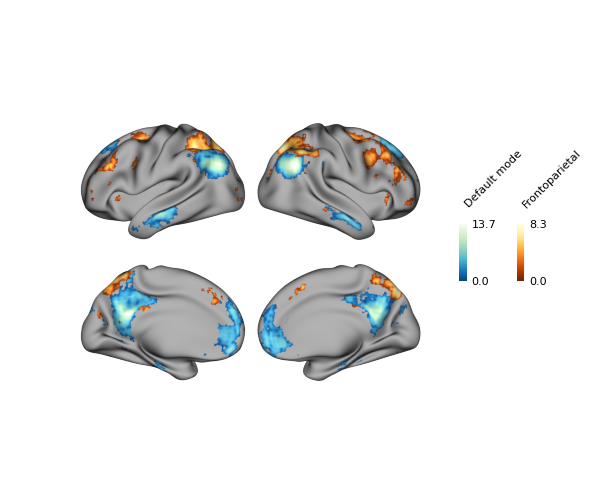
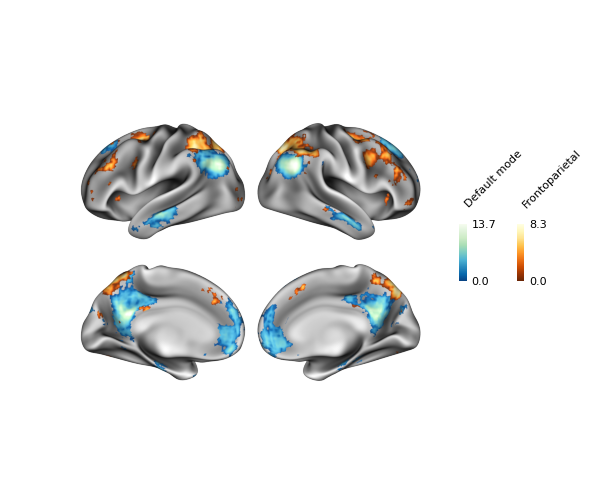
new build

diff --git a/docs/auto_examples/plot_tutorial_05.py b/docs/auto_examples/plot_tutorial_05.py
@@ -18,7 +18,7 @@ turned off by `cbar=False`. The range of the colormap is specified with the
 If no color range is specified (the default, i.e. `None`), then the color range 
 is computed automically based on the minimum and maximum of the data.
 
-Let's get started by setting up a plot with surface curvature added as well. 
+Let's get started by setting up a plot with surface shading added as well. 
 Following the first initial steps of 
 :ref:`sphx_glr_auto_examples_plot_tutorial_01.py` :
 """
@@ -29,6 +29,8 @@ surfaces = fetch_fslr()
 lh, rh = surfaces['inflated']
 p = Plot(lh, rh)
 
+sulc_lh, sulc_rh = surfaces['sulc']
+p.add_layer({'left': sulc_lh, 'right': sulc_rh}, cmap='binary_r', cbar=False)
 ###############################################################################
 # Now let's add a plotting layer with a colorbar using the example data. The
 # `cmap` parameter accepts any named `matplotlib colormap`_, or a 

diff --git a/docs/auto_examples/plot_tutorial_03.py b/docs/auto_examples/plot_tutorial_03.py
@@ -22,7 +22,7 @@ GIFTI and CIFTI data. Let's dig into this further.
 Getting data
 ------------
 
-Here we'll reuse the S1200 surfaces and curvature maps we used in 
+Here we'll reuse the S1200 fsLR surfaces and Freesurfer sulc maps we used in 
 :ref:`sphx_glr_auto_examples_plot_tutorial_01.py`, both of which are 
 downloaded via ``brainnotation``. We'll also reuse the example data. 
 """
@@ -105,7 +105,7 @@ fig.show()
 # and readable with ``nibabel``. These files must be either GIFTI or CIFTI 
 # images. When plotting both hemispheres, you will need a dictionary to assign 
 # each each GIFTI to a hemisphere. To test this out, let's get the downloaded
-# curvature maps and add them: 
+# sulc maps and add them: 
 lh_sulc, rh_sulc = surfaces['sulc']
 p = Plot(surf_lh=lh, surf_rh=rh)
 p.add_layer({'left': lh_sulc, 'right': rh_sulc}, cmap='binary_r', cbar=False)

diff --git a/docs/auto_examples/plot_tutorial_01.py b/docs/auto_examples/plot_tutorial_01.py
@@ -46,11 +46,10 @@ fig.show()
 # adding data is as simple as adding plotting layers using the 
 # :func:`~brainspace.plotting.Plot.add_layer` method. 
 # 
-# Let's first add some curvature shading. Note that we already have the 
-# curvature maps in our `surface` variable, which are accessed here with the 
-# 'sulc' key. 
+# Let's first add some shading. We already have the Freesurfer sulc maps in 
+# our `surface` variable, which are accessed here with the 'sulc' key. 
 #
-# We can pass our curvature maps to the :func:`~brainspace.plotting.Plot.add_layer` 
+# We can pass our sulc maps to the :func:`~brainspace.plotting.Plot.add_layer` 
 # method with the first positional parameter, `data`, which accepts either a 
 # dictionary with 'left' and 'right' keys, or a ``numpy`` array. 
 # :ref:`sphx_glr_auto_examples_plot_tutorial_03.py` covers what types 

diff --git a/docs/auto_examples/examples/plot_example_02.py b/docs/auto_examples/examples/plot_example_02.py
@@ -36,7 +36,7 @@ gii_lh, gii_rh = mni152_to_fslr(img)
 data_lh = threshold(gii_lh.agg_data(), 3)
 data_rh = threshold(gii_rh.agg_data(), 3)
 
-# get surfaces + curvature maps
+# get surfaces + sulc maps
 surfaces = fetch_fslr()
 lh, rh = surfaces['inflated']
 sulc_lh, sulc_rh = surfaces['sulc']

diff --git a/docs/auto_examples/examples/plot_example_01.py b/docs/auto_examples/examples/plot_example_01.py
@@ -20,7 +20,7 @@ lh, rh = surfaces['inflated']
 
 p = Plot(lh, rh)
 
-# curvature
+# shading
 lh_sulc, rh_sulc = surfaces['sulc']
 p.add_layer({'left': lh_sulc, 'right': rh_sulc}, cmap='binary_r', cbar=False)
 

diff --git a/docs/auto_examples/plot_tutorial_05.rst b/docs/auto_examples/plot_tutorial_05.rst
@@ -36,11 +36,11 @@ turned off by `cbar=False`. The range of the colormap is specified with the
 If no color range is specified (the default, i.e. `None`), then the color range 
 is computed automically based on the minimum and maximum of the data.
 
-Let's get started by setting up a plot with surface curvature added as well. 
+Let's get started by setting up a plot with surface shading added as well. 
 Following the first initial steps of 
 :ref:`sphx_glr_auto_examples_plot_tutorial_01.py` :
 
-.. GENERATED FROM PYTHON SOURCE LINES 25-32
+.. GENERATED FROM PYTHON SOURCE LINES 25-34
 
 .. code-block:: default
 
@@ -51,6 +51,8 @@ Following the first initial steps of
     lh, rh = surfaces['inflated']
     p = Plot(lh, rh)
 
+    sulc_lh, sulc_rh = surfaces['sulc']
+    p.add_layer({'left': sulc_lh, 'right': sulc_rh}, cmap='binary_r', cbar=False)
 
 
 
@@ -58,14 +60,14 @@ Following the first initial steps of
 
 
 
-.. GENERATED FROM PYTHON SOURCE LINES 33-37
+.. GENERATED FROM PYTHON SOURCE LINES 35-39
 
 Now let's add a plotting layer with a colorbar using the example data. The
 `cmap` parameter accepts any named `matplotlib colormap`_, or a 
 `colormap object`_. This means that ``surfplot`` can work with pretty much
 any colormap, including those from `seaborn`_ and `cmasher`_,  for example.  
 
-.. GENERATED FROM PYTHON SOURCE LINES 37-44
+.. GENERATED FROM PYTHON SOURCE LINES 39-46
 
 .. code-block:: default
 
@@ -87,7 +89,7 @@ any colormap, including those from `seaborn`_ and `cmasher`_,  for example.
 
 
 
-.. GENERATED FROM PYTHON SOURCE LINES 45-50
+.. GENERATED FROM PYTHON SOURCE LINES 47-52
 
 `cbar_label` added a text label to the colorbar. Although not necessary in
 cases where a single layer/colorbar is shown, it can be useful when adding
@@ -95,7 +97,7 @@ multiple layers. To demonstrate that, let's add another layer using the
 `frontoparietal` network associations from 
 :func:`~surfplot.datasets.load_example_data`:
 
-.. GENERATED FROM PYTHON SOURCE LINES 50-54
+.. GENERATED FROM PYTHON SOURCE LINES 52-56
 
 .. code-block:: default
 
@@ -114,7 +116,7 @@ multiple layers. To demonstrate that, let's add another layer using the
 
 
 
-.. GENERATED FROM PYTHON SOURCE LINES 55-84
+.. GENERATED FROM PYTHON SOURCE LINES 57-86
 
 The order of the colorbars is always based on the order of the layers, where 
 the outermost colorbar is the last (i.e. uppermost) plotting layer. Of 
@@ -146,7 +148,7 @@ Let's plot colorbars on the right, which will generate vertical colorbars
 instead of horizontal colorbars. We'll also add some style changes for a 
 cleaner look: 
 
-.. GENERATED FROM PYTHON SOURCE LINES 84-90
+.. GENERATED FROM PYTHON SOURCE LINES 86-92
 
 .. code-block:: default
 
@@ -167,12 +169,12 @@ cleaner look:
 
 
 
-.. GENERATED FROM PYTHON SOURCE LINES 91-93
+.. GENERATED FROM PYTHON SOURCE LINES 93-95
 
 Be sure to check out :ref:`sphx_glr_auto_examples_examples_plot_example_01.py`
 for another example of colorbar styling.
 
-.. GENERATED FROM PYTHON SOURCE LINES 95-99
+.. GENERATED FROM PYTHON SOURCE LINES 97-101
 
 .. _matplotlib colormap: https://matplotlib.org/stable/tutorials/colors/colormaps.html#sphx-glr-tutorials-colors-colormaps-py
 .. _custom colormap: https://matplotlib.org/stable/tutorials/colors/colormap-manipulation.html
@@ -183,7 +185,7 @@ for another example of colorbar styling.
 
 .. rst-class:: sphx-glr-timing
 
-   **Total running time of the script:** ( 0 minutes  1.180 seconds)
+   **Total running time of the script:** ( 0 minutes  1.382 seconds)
 
 
 .. _sphx_glr_download_auto_examples_plot_tutorial_05.py:

diff --git a/docs/auto_examples/plot_tutorial_01.rst b/docs/auto_examples/plot_tutorial_01.rst
@@ -85,7 +85,7 @@ Then, we can call :func:`build` method to make the figure, which returns a
 
 
 
-.. GENERATED FROM PYTHON SOURCE LINES 43-58
+.. GENERATED FROM PYTHON SOURCE LINES 43-57
 
 Adding layers
 -------------
@@ -93,17 +93,16 @@ Once the plot has been set up by instantiating the :class:`~brainspace.plotting.
 adding data is as simple as adding plotting layers using the 
 :func:`~brainspace.plotting.Plot.add_layer` method. 
 
-Let's first add some curvature shading. Note that we already have the 
-curvature maps in our `surface` variable, which are accessed here with the 
-'sulc' key. 
+Let's first add some shading. We already have the Freesurfer sulc maps in 
+our `surface` variable, which are accessed here with the 'sulc' key. 
 
-We can pass our curvature maps to the :func:`~brainspace.plotting.Plot.add_layer` 
+We can pass our sulc maps to the :func:`~brainspace.plotting.Plot.add_layer` 
 method with the first positional parameter, `data`, which accepts either a 
 dictionary with 'left' and 'right' keys, or a ``numpy`` array. 
 :ref:`sphx_glr_auto_examples_plot_tutorial_03.py` covers what types 
 of data can be passed to the `data` parameter.
 
-.. GENERATED FROM PYTHON SOURCE LINES 58-60
+.. GENERATED FROM PYTHON SOURCE LINES 57-59
 
 .. code-block:: default
 
@@ -116,14 +115,14 @@ of data can be passed to the `data` parameter.
 
 
 
-.. GENERATED FROM PYTHON SOURCE LINES 61-65
+.. GENERATED FROM PYTHON SOURCE LINES 60-64
 
 Above, we've also used a grayscale colormap (`cmap`) and turned off the 
 colorbar (`cbar`) for this particular layer.
 
 Now, let's plot our updated figure:
 
-.. GENERATED FROM PYTHON SOURCE LINES 65-67
+.. GENERATED FROM PYTHON SOURCE LINES 64-66
 
 .. code-block:: default
 
@@ -140,7 +139,7 @@ Now, let's plot our updated figure:
 
 
 
-.. GENERATED FROM PYTHON SOURCE LINES 68-76
+.. GENERATED FROM PYTHON SOURCE LINES 67-75
 
 Finally, let's add some statistical data. We can load some example data 
 packaged with ``surfplot`` using 
@@ -151,7 +150,7 @@ For convenience, this map has already been projected from a volume in MNI152
 coordinates to a fsLR surface using ``brainnotation``, and the `lh_data`
 and `rh_data` variables are just numpy arrays of the vertices:  
 
-.. GENERATED FROM PYTHON SOURCE LINES 76-79
+.. GENERATED FROM PYTHON SOURCE LINES 75-78
 
 .. code-block:: default
 
@@ -173,14 +172,14 @@ and `rh_data` variables are just numpy arrays of the vertices:
 
 
 
-.. GENERATED FROM PYTHON SOURCE LINES 80-84
+.. GENERATED FROM PYTHON SOURCE LINES 79-83
 
 We can add each array as a layer using a dictionary like before. By
 default a colorbar will be added for this layer, and its range is determined 
 by the minimum and maximum values (this can be adjusted with the 
 `color_range` parameter).
 
-.. GENERATED FROM PYTHON SOURCE LINES 84-88
+.. GENERATED FROM PYTHON SOURCE LINES 83-87
 
 .. code-block:: default
 
@@ -202,7 +201,7 @@ by the minimum and maximum values (this can be adjusted with the
 
 .. rst-class:: sphx-glr-timing
 
-   **Total running time of the script:** ( 0 minutes  1.186 seconds)
+   **Total running time of the script:** ( 0 minutes  1.287 seconds)
 
 
 .. _sphx_glr_download_auto_examples_plot_tutorial_01.py:

diff --git a/docs/auto_examples/sg_execution_times.rst b/docs/auto_examples/sg_execution_times.rst
@@ -5,18 +5,18 @@
 
 Computation times
 =================
-**00:01.250** total execution time for **auto_examples** files:
+**00:04.847** total execution time for **auto_examples** files:
 
 +-----------------------------------------------------------------------------+-----------+--------+
-| :ref:`sphx_glr_auto_examples_plot_tutorial_06.py` (``plot_tutorial_06.py``) | 00:01.250 | 0.0 MB |
+| :ref:`sphx_glr_auto_examples_plot_tutorial_03.py` (``plot_tutorial_03.py``) | 00:02.178 | 0.0 MB |
 +-----------------------------------------------------------------------------+-----------+--------+
-| :ref:`sphx_glr_auto_examples_plot_tutorial_01.py` (``plot_tutorial_01.py``) | 00:00.000 | 0.0 MB |
+| :ref:`sphx_glr_auto_examples_plot_tutorial_05.py` (``plot_tutorial_05.py``) | 00:01.382 | 0.0 MB |
++-----------------------------------------------------------------------------+-----------+--------+
+| :ref:`sphx_glr_auto_examples_plot_tutorial_01.py` (``plot_tutorial_01.py``) | 00:01.287 | 0.0 MB |
 +-----------------------------------------------------------------------------+-----------+--------+
 | :ref:`sphx_glr_auto_examples_plot_tutorial_02.py` (``plot_tutorial_02.py``) | 00:00.000 | 0.0 MB |
 +-----------------------------------------------------------------------------+-----------+--------+
-| :ref:`sphx_glr_auto_examples_plot_tutorial_03.py` (``plot_tutorial_03.py``) | 00:00.000 | 0.0 MB |
-+-----------------------------------------------------------------------------+-----------+--------+
 | :ref:`sphx_glr_auto_examples_plot_tutorial_04.py` (``plot_tutorial_04.py``) | 00:00.000 | 0.0 MB |
 +-----------------------------------------------------------------------------+-----------+--------+
-| :ref:`sphx_glr_auto_examples_plot_tutorial_05.py` (``plot_tutorial_05.py``) | 00:00.000 | 0.0 MB |
+| :ref:`sphx_glr_auto_examples_plot_tutorial_06.py` (``plot_tutorial_06.py``) | 00:00.000 | 0.0 MB |
 +-----------------------------------------------------------------------------+-----------+--------+

diff --git a/docs/auto_examples/plot_tutorial_03.rst b/docs/auto_examples/plot_tutorial_03.rst
@@ -40,7 +40,7 @@ GIFTI and CIFTI data. Let's dig into this further.
 Getting data
 ------------
 
-Here we'll reuse the S1200 surfaces and curvature maps we used in 
+Here we'll reuse the S1200 fsLR surfaces and Freesurfer sulc maps we used in 
 :ref:`sphx_glr_auto_examples_plot_tutorial_01.py`, both of which are 
 downloaded via ``brainnotation``. We'll also reuse the example data. 
 
@@ -246,7 +246,7 @@ It is possible to directly pass in file names, assuming that they're valid
 and readable with ``nibabel``. These files must be either GIFTI or CIFTI 
 images. When plotting both hemispheres, you will need a dictionary to assign 
 each each GIFTI to a hemisphere. To test this out, let's get the downloaded
-curvature maps and add them: 
+sulc maps and add them: 
 
 .. GENERATED FROM PYTHON SOURCE LINES 109-115
 
@@ -308,7 +308,7 @@ data match the number of vertices of the surface(s)!
 
 .. rst-class:: sphx-glr-timing
 
-   **Total running time of the script:** ( 0 minutes  2.048 seconds)
+   **Total running time of the script:** ( 0 minutes  2.178 seconds)
 
 
 .. _sphx_glr_download_auto_examples_plot_tutorial_03.py:

diff --git a/docs/auto_examples/examples/sg_execution_times.rst b/docs/auto_examples/examples/sg_execution_times.rst
@@ -5,10 +5,10 @@
 
 Computation times
 =================
-**00:01.371** total execution time for **auto_examples_examples** files:
+**00:01.473** total execution time for **auto_examples_examples** files:
 
 +------------------------------------------------------------------------------------+-----------+--------+
-| :ref:`sphx_glr_auto_examples_examples_plot_example_02.py` (``plot_example_02.py``) | 00:00.748 | 0.0 MB |
+| :ref:`sphx_glr_auto_examples_examples_plot_example_02.py` (``plot_example_02.py``) | 00:00.848 | 0.0 MB |
 +------------------------------------------------------------------------------------+-----------+--------+
-| :ref:`sphx_glr_auto_examples_examples_plot_example_01.py` (``plot_example_01.py``) | 00:00.623 | 0.0 MB |
+| :ref:`sphx_glr_auto_examples_examples_plot_example_01.py` (``plot_example_01.py``) | 00:00.625 | 0.0 MB |
 +------------------------------------------------------------------------------------+-----------+--------+

diff --git a/docs/auto_examples/examples/plot_example_02.rst b/docs/auto_examples/examples/plot_example_02.rst
@@ -68,7 +68,7 @@ projected from MNI152 coordinates to fsLR surfaces using ``brainnotation``.
     data_lh = threshold(gii_lh.agg_data(), 3)
     data_rh = threshold(gii_rh.agg_data(), 3)
 
-    # get surfaces + curvature maps
+    # get surfaces + sulc maps
     surfaces = fetch_fslr()
     lh, rh = surfaces['inflated']
     sulc_lh, sulc_rh = surfaces['sulc']
@@ -91,7 +91,7 @@ projected from MNI152 coordinates to fsLR surfaces using ``brainnotation``.
 
 .. rst-class:: sphx-glr-timing
 
-   **Total running time of the script:** ( 0 minutes  0.748 seconds)
+   **Total running time of the script:** ( 0 minutes  0.848 seconds)
 
 
 .. _sphx_glr_download_auto_examples_examples_plot_example_02.py:

diff --git a/docs/auto_examples/examples/plot_example_01.rst b/docs/auto_examples/examples/plot_example_01.rst
@@ -52,7 +52,7 @@ stylizing for a clean-looking figure.
 
     p = Plot(lh, rh)
 
-    # curvature
+    # shading
     lh_sulc, rh_sulc = surfaces['sulc']
     p.add_layer({'left': lh_sulc, 'right': rh_sulc}, cmap='binary_r', cbar=False)
 
@@ -78,7 +78,7 @@ stylizing for a clean-looking figure.
 
 .. rst-class:: sphx-glr-timing
 
-   **Total running time of the script:** ( 0 minutes  0.623 seconds)
+   **Total running time of the script:** ( 0 minutes  0.625 seconds)
 
 
 .. _sphx_glr_download_auto_examples_examples_plot_example_01.py:
